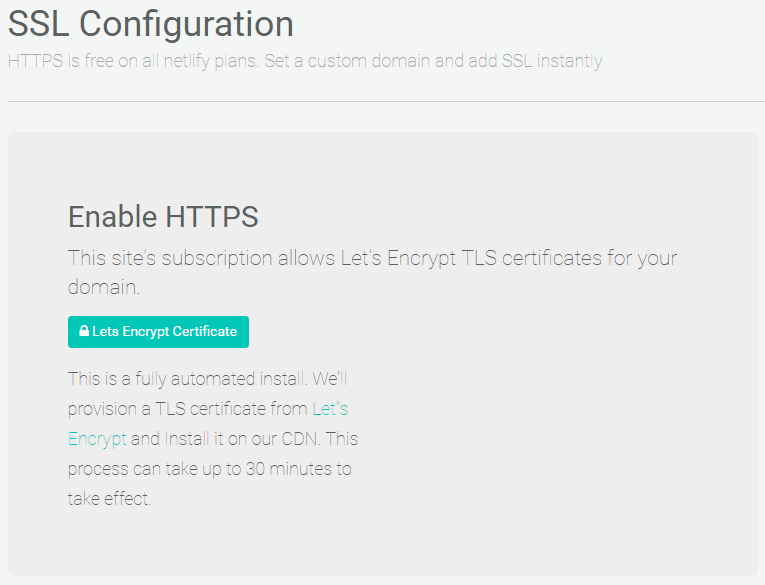
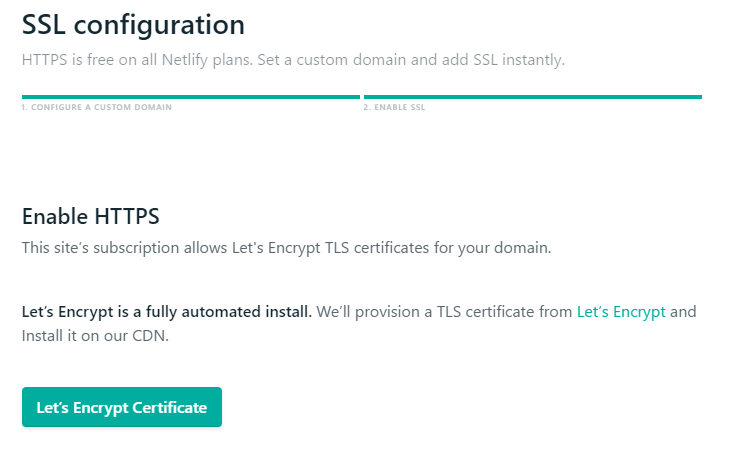
Update Post

Changed region(s): [[0.0309, 0.34, 0.9262, 0.9581], [0.0, 0.0, 0.8027, 0.1545], [0.0309, 0.1854, 0.957, 0.2472]]

diff --git a/_posts/2017-02-13-netlify.md b/_posts/2017-02-13-netlify.md
@@ -21,8 +21,9 @@ Compared with the SSL-less (on custom domain) GitHub Pages, <a href="https://www
 * Awesome Redirects Rule
 * Custom HTTP Headers
 * Form Submission which I used for my contact form.
-* Free custom domains with aliases.
+* Free custom domain hosting with aliases.
 * DNS Hosting for paid and open source plan.
+* No custom domain yet? Use their free subdomain.
 
 ### HTTP Headers, Redirects and SSL
 
@@ -72,7 +73,8 @@ More about redirects at <a href="https://www.netlify.com/docs/redirects/" target
 
 **SSL**
 
-All you need to activate SSL is to click the green button. Yes.. seriously, it is that simple.
+Unlike GitHub Pages, Netlify provides you free SSL. I mean, who would deny free stuff? All you need to activate SSL is to click the green button. Yes.. seriously, it is that simple.
+
 ![netlify ssl]({{ site.url }}/assets/images/data/netlifyssl.png)
 
 More about SSL at <a href="https://www.netlify.com/docs/ssl/" target="_blank" rel="noopener noreferrer">the documentation page</a>.
